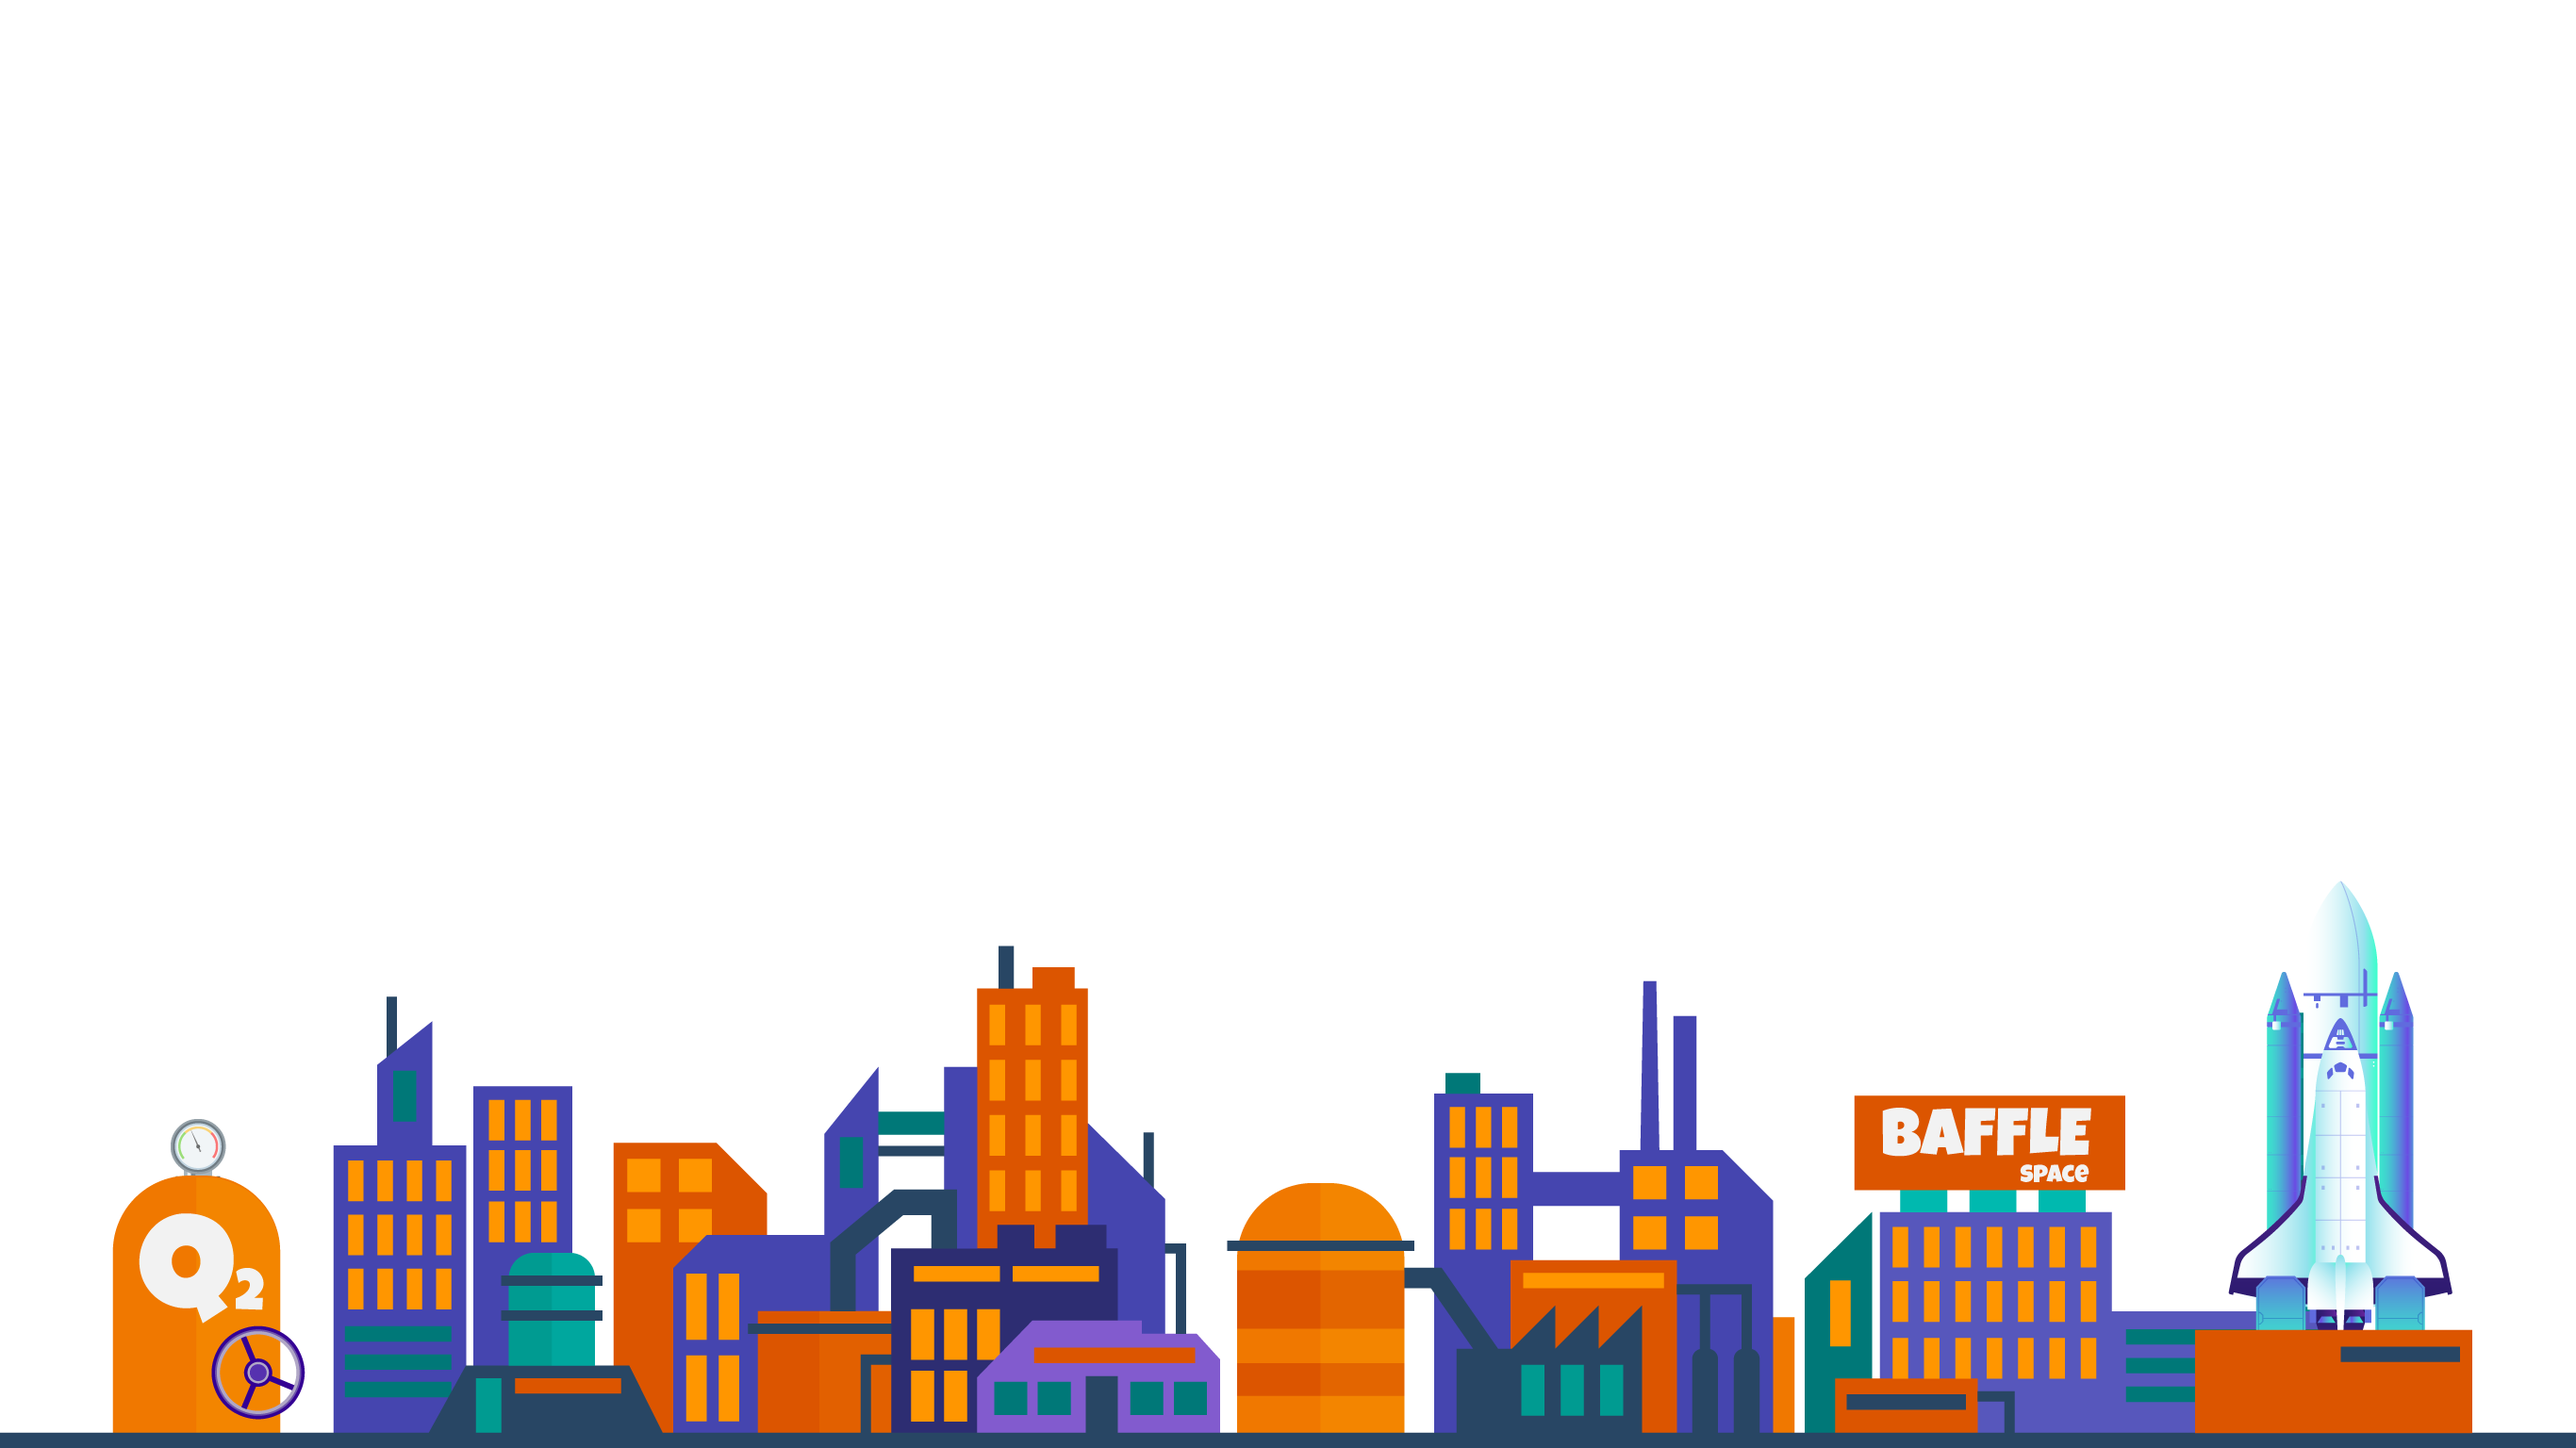
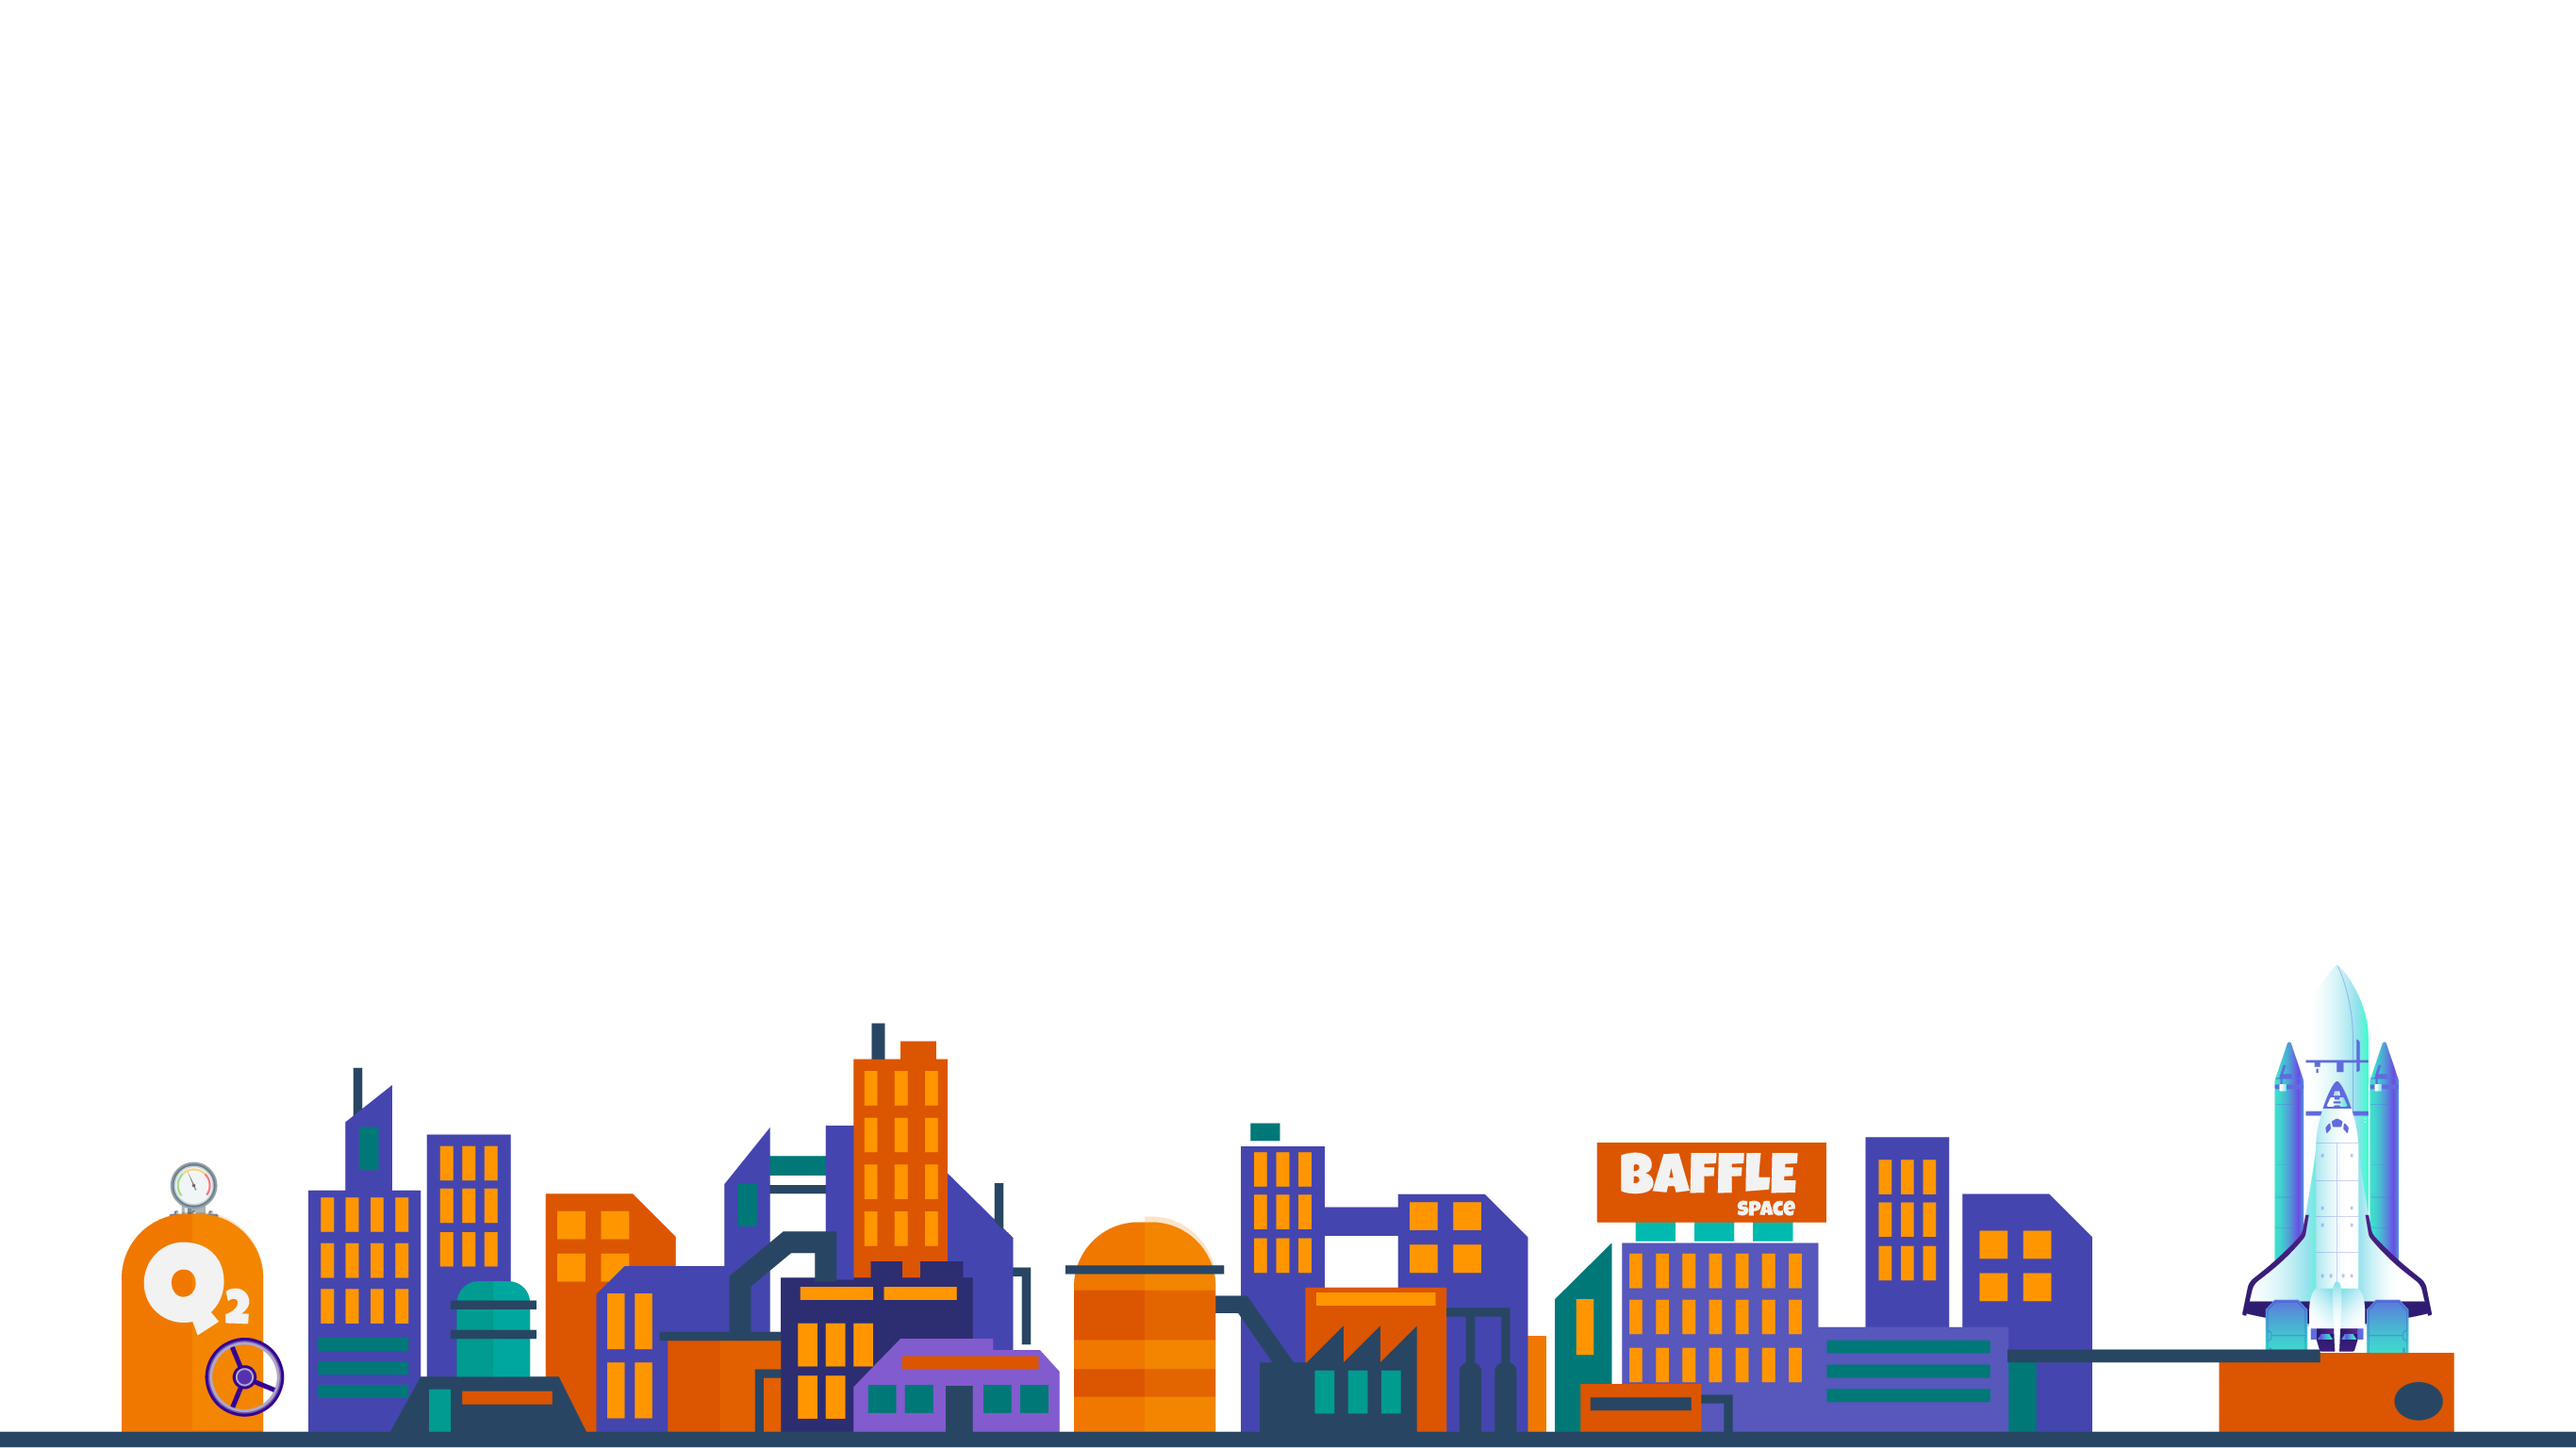
roadmap styling

Changed region(s): [[0.0311, 0.5938, 0.9645, 1.0]]

diff --git a/components/landingPage/roadMap/RoadMap.tsx b/components/landingPage/roadMap/RoadMap.tsx
@@ -1,23 +1,36 @@
-import { Text } from '@chakra-ui/react';
+import { Heading, Box, Text } from '@chakra-ui/react';
 
 import styles from './RoadMap.module.scss';
 
 const RoadMap = () => {
   return (
-    <div className={styles.roadMap}>
-      <div className={styles.cityAndClouds}>
-        <Text fontSize="5xl" color="white">
-          Roadmap 2022
-        </Text>
-
-        <div className={styles.cloudsImageWrapper}>
-          <img className={styles.baseImage} src="/clouds.png" alt="Clouds in the sky" />
-        </div>
-        <div className={styles.cityImageWrapper}>
+    <Box className={styles.roadMap}>
+      <Box px={20} className={styles.cityAndCloudsWrapper}>
+        <Box textAlign="center" pt={10}>
+          <Heading
+            mb={10}
+            color="white"
+            fontWeight={600}
+            fontSize={{ base: '3xl', sm: '4xl', md: '6xl' }}
+            lineHeight="110%"
+          >
+            Roadmap 2022
+          </Heading>
+          <Text textAlign="center" fontSize="3xl" color="white">
+            Lorem ipsum dolor sit amet, consectetur adipisicing elit. Assumenda ducimus iusto nihil
+            obcaecati possimus quo recusandae? A ad aspernatur deserunt, dicta distinctio doloremque
+            eligendi, esse eum minus mollitia, sapiente sit?
+          </Text>
+        </Box>
+        <Box className={styles.cityImageWrapper}>
           <img className={styles.baseImage} src="/city.png" alt="City on the road map" />
-        </div>
-      </div>
-    </div>
+        </Box>
+      </Box>
+
+      <Box className={styles.roadmapWrapper}>
+        <img className={styles.baseImage} src="/map.png" alt="Baffle.space roadmap" />
+      </Box>
+    </Box>
   );
 };
 

diff --git a/components/landingPage/roadMap/RoadMap.module.scss b/components/landingPage/roadMap/RoadMap.module.scss
@@ -1,25 +1,32 @@
 .roadMap {
+  height: 100vh;
+
   .baseImage {
     object-fit: contain;
     width: 100%;
     height: auto;
   }
 
-  .cityAndClouds {
+  .cityAndCloudsWrapper {
+    height: 100vh; // position absolute city
+    background: blue url("/clouds.png") no-repeat center center;
+    background-size: cover;
+    background-attachment: fixed;
     position: relative;
-    background: blue;
     display: flex;
     flex-direction: column;
-    justify-content: center;
+    justify-content: space-between;
     align-items: center;
 
-    .cloudsImageWrapper {
-      position: relative;
-    }
-
     .cityImageWrapper {
-      position: relative;
+
+      position: absolute;
+      bottom: 0;
     }
+  }
+
+  .roadmapWrapper {
+    background: yellowgreen;
   }
 }
 

diff --git a/layouts/landingPageLayout/landingPageLayout.tsx b/layouts/landingPageLayout/landingPageLayout.tsx
@@ -9,7 +9,7 @@ interface LandingPageLayoutProps {
 
 const LandingPageLayout = ({ children }: LandingPageLayoutProps) => {
   return (
-    <Flex direction="column" align="center" maxW={{ xl: '1400px' }} m="0 auto">
+    <Flex direction="column" align="center" m="0 auto">
       <LandingPageHeader />
       {children}
     </Flex>

diff --git a/theme/index.ts b/theme/index.ts
@@ -3,7 +3,7 @@ import { extendTheme } from '@chakra-ui/react';
 export const theme = extendTheme({
   fonts: {
     heading: `'Luckiest Guy', cursive`,
-    body: `'Luckiest Guy', cursive`,
+    // body: `'Luckiest Guy', cursive`,
   },
   colors: {
     gray: {
